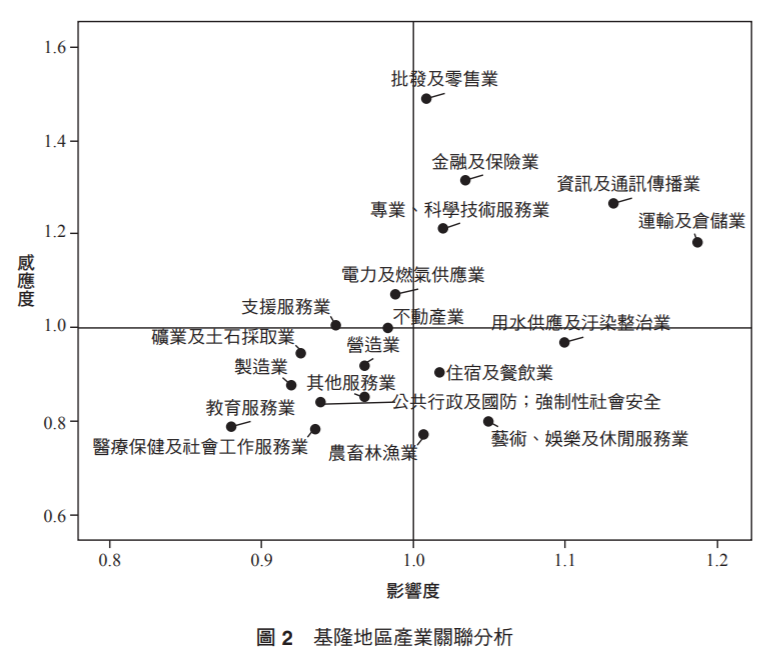
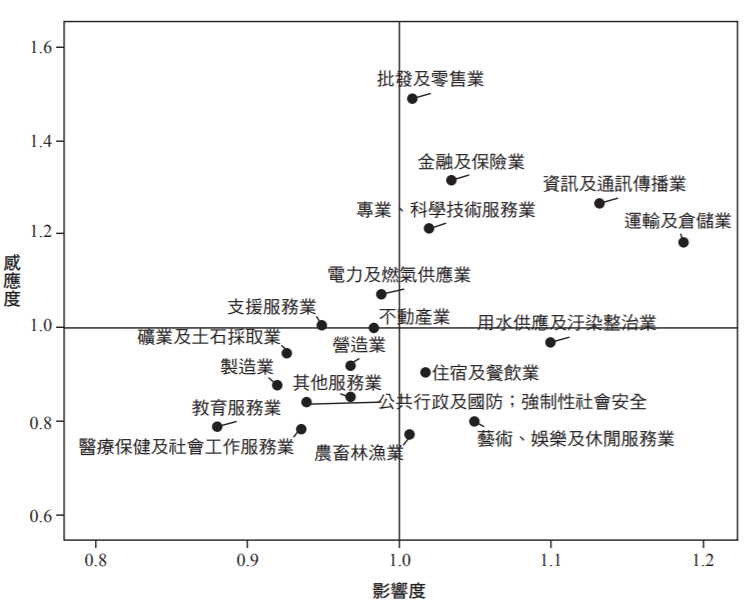
font-size

Changed region(s): [[0.0, 0.0311, 1.0, 0.9951]]

diff --git a/index.html b/index.html
@@ -287,9 +287,9 @@
             <div class="col-full" style="text-align:center;">
               <p>基隆港的沒落，連帶造成了基隆市產業的萎縮、當地的就業機會不足，使得現在的基隆民眾必須到台北市或是新北市就業，根據主計總處國勢普查處106年最新統計，99年臺灣地區15歲以上跨縣市通勤工作人口(表一)，基隆市以高達39%居全台之冠。缺乏就業機會也導致基隆市人口的外移，資料顯示(圖一)，基隆市截至2015年基隆市的社會增加率均呈現負值，2009年人口外移趨勢減緩本組則認為是台灣房市復甦所導致，但造成基隆市人口外移的根本原因應是就業環境問題，仍未改善。我們可以從失業率來確認這件事情，表二列出了基隆市自1998年至2017年的失業率，以及其全台排名，可以發現除2009年之外，基隆市的失業率均名列前茅，可見基隆市的就業環境問題仍在。</p>
               <br>
-              <div class="col-block"><img src="images/table1.png" alt="table1" style="width:70%;"> <br><span style="font-size:0.5em;">表一</span></div>
-              <div class="col-block"> <span style="font-size:0.5em;">圖一</span> <br><img src="images/graph1.png" alt="graph1"style="width:70%;"></div> <br> <br>
-              <br><br> <div class="col-block"><img src="images/table2.png" alt="table1" style="width:70%;"> <br><span style="font-size:0.5em;">表二 資料來源:行政院主計總處</span></div>
+              <div class="col-block"><img src="images/table1.png" alt="table1" style="width:70%;"> <br><span style="font-size:0.8em;">表一</span></div>
+              <div class="col-block"> <span style="font-size:0.8em;">圖一</span> <br><img src="images/graph1.png" alt="graph1"style="width:70%;"></div> <br> <br>
+              <br><br> <div class="col-block"><img src="images/table2.png" alt="table1" style="width:70%;"> <br><span style="font-size:0.8em;">表二 資料來源:行政院主計總處</span></div>
               </div>
             </div>
 
@@ -320,20 +320,22 @@
             <div class="col-full">
               <p>台灣的國際商港其實不只基隆一個，為了釐清問題，本組比較了台灣西部國際商港所在縣市1998至2017年的失業率(圖二)，發現基隆市除了2009年以外，其失業率均為四個國際商港所在縣市中最高者。再比較各縣市的社會增加率(圖三)我們同樣也發現，基隆市與其他縣市相比，人口外移問題較嚴重。</p>
               <br> <img src="images/graph2.png" alt="graph2">
-              <br> <span style="font-size:0.5em;">圖二</span>
+              <br> <span style="font-size:0.8em;">圖二</span>
               <br> <img src="images/graph3.png" alt="graph3">
-              <br> <p><span style="font-size:0.5em;">圖三 資料來源 行政院主計總處</span></p>
+              <br> <p><span style="font-size:0.8em;">圖三 資料來源 行政院主計總處</span></p>
               <p>其他國際商港所在之縣市同樣面對台灣產業外移、貨運量不如以往的問題，但為什麼基隆市自港口沒落後便一蹶不振呢?
 基隆港是基隆的經濟命脈，在過去，基隆港為基隆帶來大量的人潮與就業機會，從基隆港進進出出的船員、商人、留學生，帶動了整個基隆市的經濟，
 當時基隆的酒吧林立，報關行、委託行一間接著一間開，使基隆成為商品貿易的重要地區。然而隨著基隆逐漸沒落，人潮不再，以「服務業」為主的基隆市，也跟著沒落。本組認為產業結構是基隆相較於其他國際商港所在支縣市經濟無法有起色的原因，比較基隆、台中、高雄等縣市106年產業產值占比(圖四、五、六) ，會看出基隆前兩名產業產值分別為批發零售業與運輸及倉儲業，均屬服務業，產值占全市的50%以上，而高雄、台中，則均是以製造業為主。基隆市腹地狹小，且港口緊鄰市區，無法設置加工出口區或是大型工業區對於工業的發展不利，因此當台灣面臨產業外移、貿易萎縮，沒有工業支撐貨運量的基隆，便受到較深的傷害。
 </p>
   <div class="row services-list block-1-3 block-tab-full">
-    <div class="row services-item col-block "><span style="font-size:0.5em;">圖四</span> <br> <img src="images/graph4.jpg" alt="graph4"> </div>
-    <div class="row services-item col-block"><span style="font-size:0.5em;">圖五</span> <br><img src="images/graph5.jpg" alt="graph5"></div>
-    <div class="row services-item col-block"><span style="font-size:0.5em;">圖六</span> <br><img src="images/graph6.jpg" alt="graph6"><span style="font-size:0.5em;">資料來源:政府資料開放平台營利事業銷售額</span></div>
+    <div class="row services-item col-block "><span style="font-size:0.8em;">圖四</span> <br> <img src="images/graph4.jpg" alt="graph4"> </div>
+    <div class="row services-item col-block"><span style="font-size:0.8em;">圖五</span> <br><img src="images/graph5.jpg" alt="graph5"></div>
+    <div class="row services-item col-block"><span style="font-size:0.8em;">圖六</span> <br><img src="images/graph6.jpg" alt="graph6"><span style="font-size:0.8em;">資料來源:政府資料開放平台營利事業銷售額</span></div>
   </div>
             <p>此外，基隆港之於基隆，其重要性可以透過產業關聯圖觀察，由黃幼宜,柯冠宇(2014)所製作之基隆地區產業關聯分析圖(圖七)，橫軸為影響度，表示單一景氣改變所影響其他產業的程度，縱軸為感應度，表示整體景氣變好而能受惠的程度，可看到基隆市產值占比最大的批發零售業有高感應度、低影響度的特性，運輸及倉儲業則是有低感應度、高影響度的特性。運輸及倉儲業與基隆港的興衰有直接的關係，當基隆港逐漸沒落，運輸倉儲業會受到衝擊，又因其影響度高，故會導致其他產業也受到負面的影響，而基隆產值最高的批發零售業則是因其高感應度的特性，所以當基隆市整體經濟發展不好時，會有最直接的負面影響。</p>
+            <br><span style="font-size:0.8em;">圖七</span>
             <br><img src="images/graph7.png" alt="graph7">
+
             <br><p>綜合以上論點，目前基隆的根本問題在於產業結構深受基隆港影響，若想改善問題，必須活絡基隆港的功能，讓基隆港再次為基隆創造價值。</p>
 
             </div> <!-- end col-full -->
